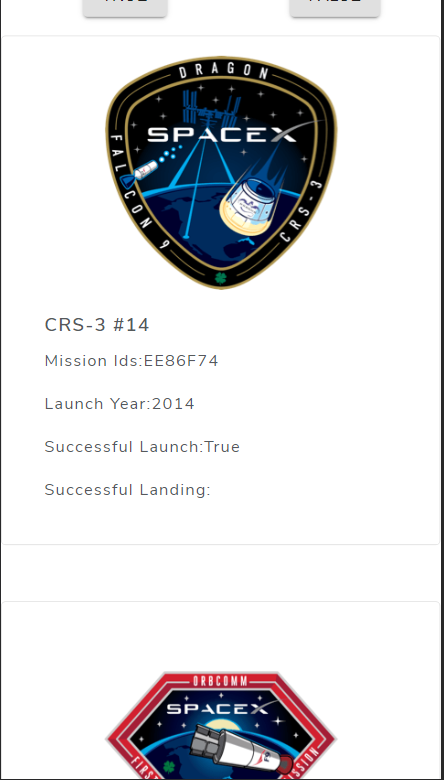
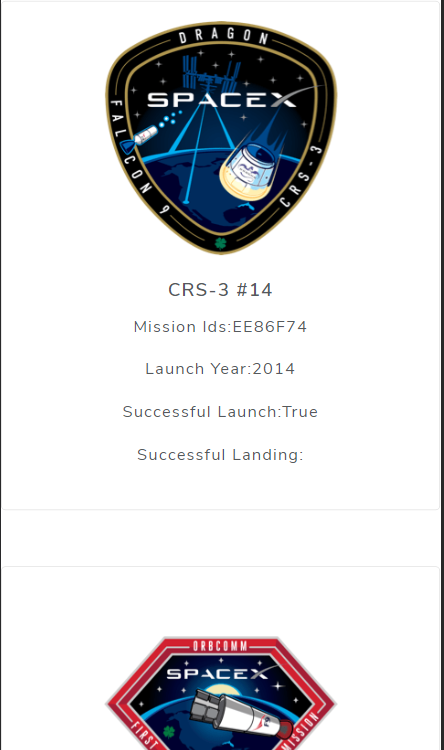
minor change

diff --git a/src/components/Flight.js b/src/components/Flight.js
@@ -17,7 +17,7 @@ function Flight({ flight,history}) {
   
   return (
       <Grid item xs={12} md={3} sm={6}>
-            <Card className="my-3 p-3 rounded">
+            <Card className="my-3 p-3 rounded text-center">
             <div className="text-center">
                 <Card.Img
                 variant="top"
